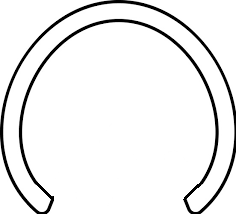
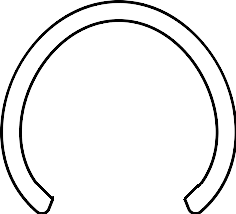
remove img bg

diff --git a/templates/index.html b/templates/index.html
@@ -47,11 +47,9 @@
                 <h3>Hoof Analysis</h3>
 
                 <div class="analysis-wrapper">
-
-                    <img src="{{ processed_image }}">
+                    <img class="analysis-image" src="{{ processed_image }}">
 
                     <img class="hoof-overlay" src="/static/images/hoof_shape.png">
-
                 </div>
                 {% endif %}
 

diff --git a/static/style.css b/static/style.css
@@ -269,3 +269,15 @@ body {
   opacity: 0.35;
   pointer-events: none;
 }
+
+.image-column img,
+.analysis-wrapper img {
+  max-width: 100%;
+  height: auto;
+}
+
+.analysis-image {
+  display: block;
+  width: 100%;
+  height: auto;
+}
